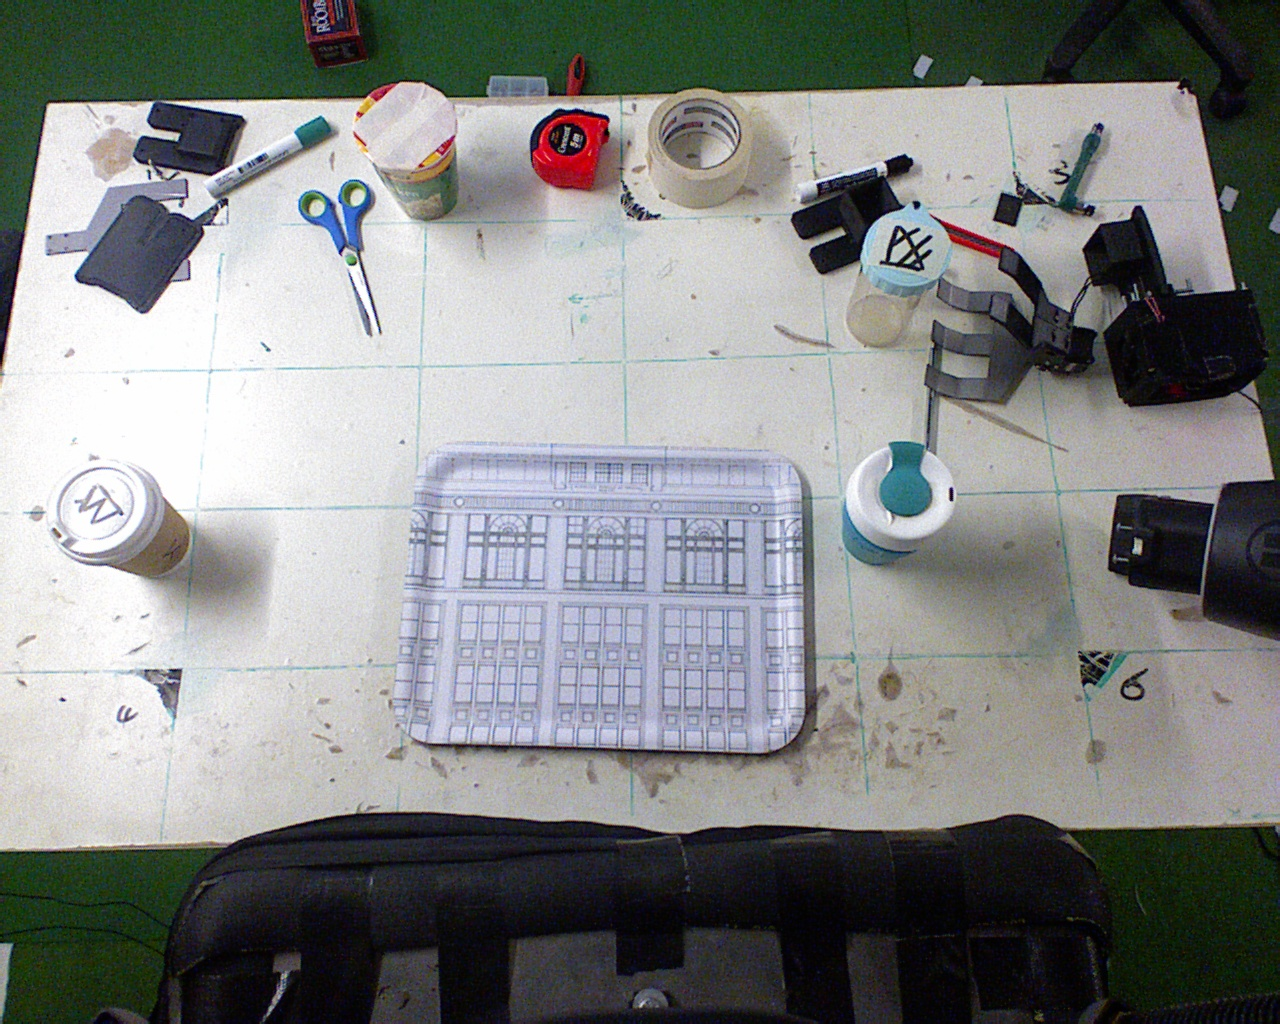
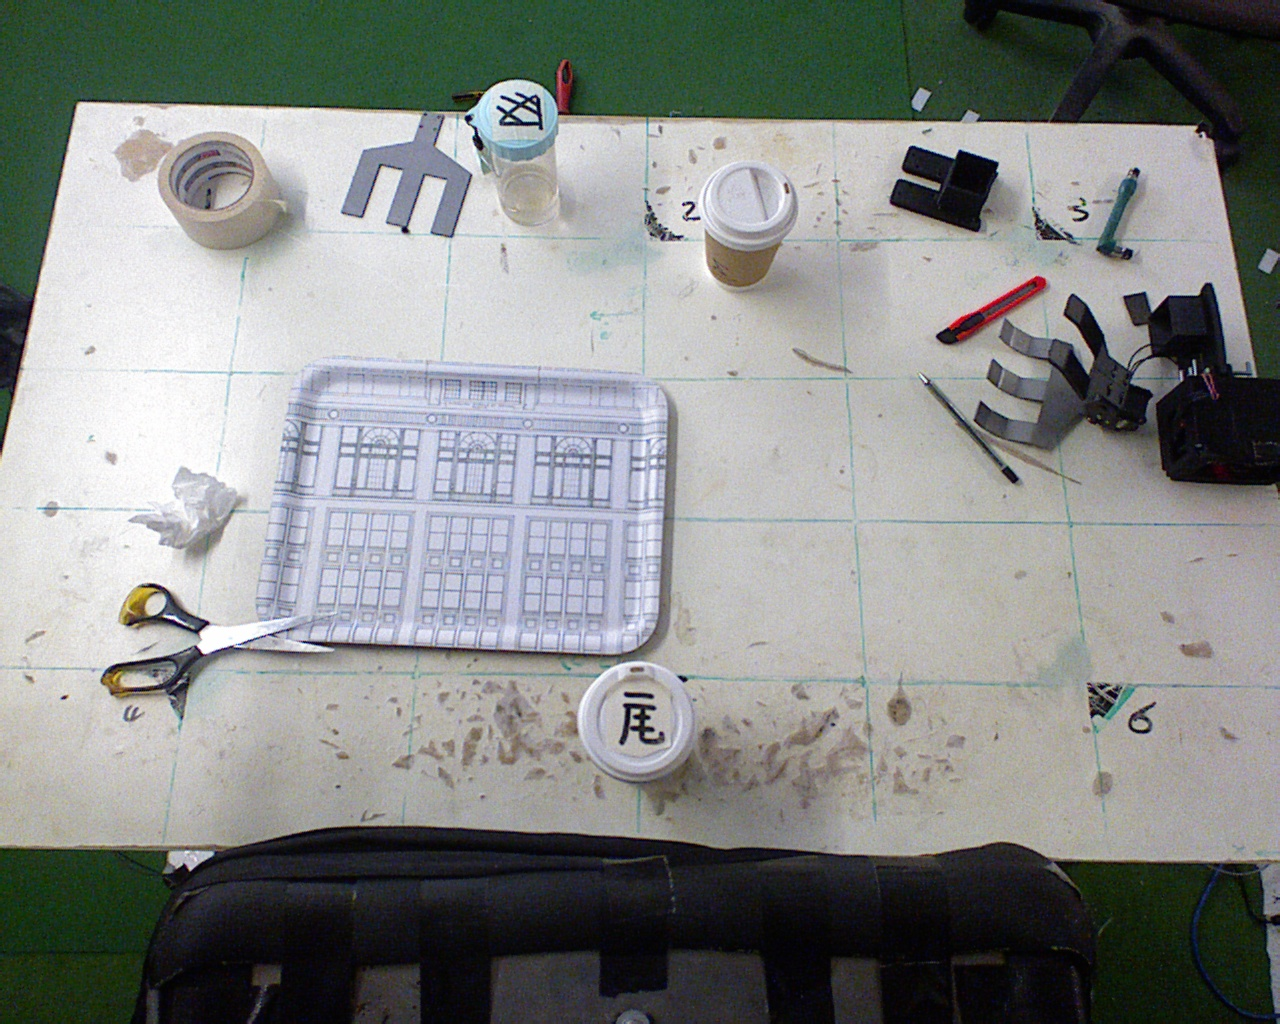
pour water

diff --git a/src/manipulation/scripts/pick_up_cylinder.py b/src/manipulation/scripts/pick_up_cylinder.py
@@ -26,6 +26,8 @@ from baxter_core_msgs.srv import (
     SolvePositionIKRequest,
 )
     
+Z_PICK = TableZ + 0.075
+
 def main():
       
     #initiate ros, robot, assign variables...
@@ -33,8 +35,56 @@ def main():
     rs = baxter_interface.RobotEnable(CHECK_VERSION)
     init_state = rs.state().enabled
     rs.enable()
+    traj = Trajectory("left")
+    rospy.on_shutdown(traj.stop)
     
+    
+    
+    ##pick up
     single_arm_pick("left","CoffeeCup")
+    
+    #~ single_arm_pick("left","WaterBottle")
+    
+    ### move up
+    limb = "left"
+    theta = radians(-90)
+    alpha = radians(95)
+    x=0.55
+    y=0.3
+    [r_x,r_y,r_z,r_w, offset_x, offset_y] = find_gesture_cylinder(limb, theta,alpha, GripperYoffset, GripperZoffset)
+    jointPosition_list = [ ik_position_list(limb,x+offset_x, y+offset_y,Z_PICK+0.15,r_x,r_y,r_z,r_w) ]
+    duration = [7]
+    
+    ### pour
+    gamma = radians(-100)
+    rospy.sleep(2)
+    [r_x,r_y,r_z,r_w, offset_x, offset_y] = find_gesture_cylinder_pour(limb, theta,alpha, gamma, GripperYoffset, GripperZoffset)
+    jointPosition_list.append ( ik_position_list(limb,x+offset_x, y+offset_y,Z_PICK+0.15,r_x,r_y,r_z,r_w) )
+    duration.append (duration[-1]+10)
+    
+    ###pause
+    jointPosition_list.append ( ik_position_list(limb,x+offset_x, y+offset_y,Z_PICK+0.15,r_x,r_y,r_z,r_w) )
+    duration.append (duration[-1]+9)
+    
+    ### unpour
+    [r_x,r_y,r_z,r_w, offset_x, offset_y] = find_gesture_cylinder(limb, theta,alpha, GripperYoffset, GripperZoffset)
+    jointPosition_list.append (ik_position_list(limb,x+offset_x, y+offset_y,Z_PICK+0.15,r_x,r_y,r_z,r_w) )
+    duration.append (duration[-1]+3)
+    
+    ###place
+    x=0.45
+    y=0.35
+    [r_x,r_y,r_z,r_w, offset_x, offset_y] = find_gesture_cylinder(limb, theta,alpha, GripperYoffset, GripperZoffset)
+    jointPosition_list.append (ik_position_list(limb,x+offset_x, y+offset_y,Z_PICK,r_x,r_y,r_z,r_w) )
+    duration.append (duration[-1]+3)
+    
+    for i in range(len(jointPosition_list)):
+		traj.add_point(jointPosition_list[i], duration[i])
+    traj.start()
+    traj.wait(30.0)
+    traj.clear(limb)
+    
+    os.system("rostopic pub /gripper_test_both/request utilities/gripperTestRequest -1 '[0, now,base_link]' 0 3")
     
 
     return 0
@@ -43,104 +93,100 @@ def main():
 # alpha in degree, lim= "left" or "right"
 def single_arm_pick(limb,object):
     
+    traj = Trajectory(limb)
     ##constants
-    Z_PICK = TableZ + 0.065
     theta = radians(-90)
+    alpha = radians(95)
     #object radius adjustment
     r=0
     offset = 0.1
     X_START=0.4
-    Y_START=0.5
-    Z_START=0.3
+    Y_START=0.63
+    Z_START=0.4
     R_X=0.603489643517
     R_Y=0.634442665138
     R_Z=-0.335770984639
     R_W=0.347189574577
-    traj = Trajectory(limb)
-    rospy.on_shutdown(traj.stop)
+
     
     #start position, no block of camera
-    traj.add_point(ik_position_list(limb,X_START,Y_START,Z_START,R_X,R_Y,R_Z,R_W), 5)
+    traj.add_point(ik_position_list(limb,X_START,Y_START,Z_START,R_X,R_Y,R_Z,R_W), 6)
     traj.start()
     traj.wait(10.0)
     traj.clear(limb)
 
-    os.system("rostopic pub /gripper_test_both/request utilities/gripperTestRequest -1 '[0, now,base_link]' 0 3")
+    #~ os.system("rostopic pub /gripper_test_both/request utilities/gripperTestRequest -1 '[0, now,base_link]' 0 3")
     
     #get plate position
     [x,y]=find_centre(get_object_position(object))
     print "centre position: %s\n"%[x,y]
     
     ##motion planning
-    step=2.5
+    step= 5
     times=1
     alternating = -1
     foundAngle = 0
     jointPosition_list = []
     duration = []
-    while abs(degrees(theta) -(- 90))<30:
+    while abs(degrees(theta) -(- 90))<90:
+        print "testing theta = ",degrees(theta), "\n"
 		#away and higher from object
-		[r_x,r_y,r_z,r_w, offset_x, offset_y] = find_gesture_cylinder(limb, theta,1.1*GripperYoffset, 2*GripperZoffset)
-		jointPosition_list = [ ik_position_list(limb,x+offset_x, y+offset_y,Z_PICK+0.13,r_x,r_y,r_z,r_w) ]
-		duration = [4]
-		#lower
-		jointPosition_list.append(ik_position_list(limb,x+offset_x, y+offset_y,Z_PICK,r_x,r_y,r_z,r_w))
-		duration.append (duration[-1]+2)
-		#closer in z1 direnction
-		[r_x,r_y,r_z,r_w, offset_x, offset_y] = find_gesture_cylinder(limb, theta,1.1*GripperYoffset, GripperZoffset)
-		jointPosition_list.append(ik_position_list(limb,x+offset_x, y+offset_y,Z_PICK,r_x,r_y,r_z,r_w))
-		duration.append (duration[-1]+2)
-		#tighter in y1 direction
-		[r_x,r_y,r_z,r_w, offset_x, offset_y] = find_gesture_cylinder(limb, theta,GripperYoffset, GripperZoffset)
-		jointPosition_list.append(ik_position_list(limb,x+offset_x, y+offset_y,Z_PICK,r_x,r_y,r_z,r_w))
-		duration.append (duration[-1]+1)
-		#tighter in z1 direction
-		[r_x,r_y,r_z,r_w, offset_x, offset_y] = find_gesture_cylinder(limb, theta,GripperYoffset, 0.95*GripperZoffset)
-		jointPosition_list.append(ik_position_list(limb,x+offset_x, y+offset_y,Z_PICK,r_x,r_y,r_z,r_w))
-		duration.append (duration[-1]+1)
-		
-		#check if found solution
-		foundAngle = 1
-		for i in jointPosition_list:
-			if i == 2:
-				foundAngle = 0
-		if foundAngle ==1:
-			break
-		else:
-			theta = -90 - step*times*alternating
-			times = times+1
-			alternating = -alternating
+        [r_x,r_y,r_z,r_w, offset_x, offset_y] = find_gesture_cylinder(limb, theta,alpha, 1.5*GripperYoffset, 2*GripperZoffset)
+        jointPosition_list = [ ik_position_list(limb,x+offset_x, y+offset_y,Z_PICK+0.13,r_x,r_y,r_z,r_w) ]
+        duration = [4]
+        #lower
+        jointPosition_list.append(ik_position_list(limb,x+offset_x, y+offset_y,Z_PICK,r_x,r_y,r_z,r_w))
+        duration.append (duration[-1]+2)
+        #pause
+        jointPosition_list.append(ik_position_list(limb,x+offset_x, y+offset_y,Z_PICK,r_x,r_y,r_z,r_w))
+        duration.append (duration[-1]+1)
+        #closer in z1 direnction
+        [r_x,r_y,r_z,r_w, offset_x, offset_y] = find_gesture_cylinder(limb, theta,alpha,  1.5*GripperYoffset, 1.2*GripperZoffset)
+        jointPosition_list.append(ik_position_list(limb,x+offset_x, y+offset_y,Z_PICK,r_x,r_y,r_z,r_w))
+        duration.append (duration[-1]+4)
+        #pause
+        jointPosition_list.append(ik_position_list(limb,x+offset_x, y+offset_y,Z_PICK,r_x,r_y,r_z,r_w))
+        duration.append (duration[-1]+1)
+        #tighter in y1 direction
+        [r_x,r_y,r_z,r_w, offset_x, offset_y] = find_gesture_cylinder(limb, theta,alpha,  0.75*GripperYoffset, 0.9*GripperZoffset)
+        jointPosition_list.append(ik_position_list(limb,x+offset_x, y+offset_y,Z_PICK,r_x,r_y,r_z,r_w))
+        duration.append (duration[-1]+2)
+        #~ #tighter in z1 direction
+        #~ [r_x,r_y,r_z,r_w, offset_x, offset_y] = find_gesture_cylinder(limb, theta,alpha,  0*GripperYoffset, 0.5*GripperZoffset)
+        #~ jointPosition_list.append(ik_position_list(limb,x+offset_x, y+offset_y,Z_PICK,r_x,r_y,r_z,r_w))
+        #~ duration.append (duration[-1]+2)
+        
+        #check if found solution
+        foundAngle = 1
+        for i in jointPosition_list:
+            if i == 2:
+                foundAngle = 0
+        
+        #break if found a solution
+        #~ print "foundAngle = %s\n"%foundAngle
+        if foundAngle ==1:
+            break
+        else:
+            theta = radians(-90 - step*times*alternating)
+            times = times+1
+            alternating = -alternating
+            #~ print "testing theta = ",degrees(theta), "\n"
 			
-	if foundAngle =0
-		print "\n!!!No solution found!!! Quit\n"
-		return 1
+    if foundAngle == 0:
+        print "\n!!!No solution found!!! Quit\n"
+        return 1
 		
-    #~ #away and higher from object
-    #~ [r_x,r_y,r_z,r_w, offset_x, offset_y] = find_gesture_cylinder(limb, theta,1.1*GripperYoffset, 2*GripperZoffset)
-    #~ traj.add_point(ik_position_list(limb,x+offset_x, y+offset_y,Z_PICK+0.13,r_x,r_y,r_z,r_w), 4.0)
-    #~ #lower
-    #~ traj.add_point(ik_position_list(limb,x+offset_x, y+offset_y,Z_PICK,r_x,r_y,r_z,r_w), 6.0)
-    #~ 
-    #~ #closer
-    #~ [r_x,r_y,r_z,r_w, offset_x, offset_y] = find_gesture_cylinder(limb, theta,1.1*GripperYoffset, GripperZoffset)
-    #~ traj.add_point(ik_position_list(limb,x+offset_x, y+offset_y,Z_PICK,r_x,r_y,r_z,r_w), 8.0)
-    #~ 
-    #~ #tighter in y1 direction
-    #~ [r_x,r_y,r_z,r_w, offset_x, offset_y] = find_gesture_cylinder(limb, theta,GripperYoffset, GripperZoffset)
-    #~ traj.add_point(ik_position_list(limb,x+offset_x, y+offset_y,Z_PICK,r_x,r_y,r_z,r_w), 9.0)
-    #~ #tighter in z1 direction
-    #~ [r_x,r_y,r_z,r_w, offset_x, offset_y] = find_gesture_cylinder(limb, theta,GripperYoffset, 0.95*GripperZoffset)
-    #~ traj.add_point(ik_position_list(limb,x+offset_x, y+offset_y,Z_PICK,r_x,r_y,r_z,r_w), 10.0)
     
-    print "\n picking up using theta = ",theta, "\n"
+    print "\n picking up using theta = ",degrees(theta), "\n"
     
     for i in range(len(jointPosition_list)):
-		traj.add(jointPosition_list[i], duration[i])
+		traj.add_point(jointPosition_list[i], duration[i])
     traj.start()
-    traj.wait(10.0)
+    traj.wait(30.0)
     traj.clear(limb)
     
     os.system("rostopic pub /gripper_test_both/request utilities/gripperTestRequest -1 '[0, now,base_link]' 1 3")
+    
     
     return 0
     

diff --git a/src/manipulation/scripts/common_functions.py b/src/manipulation/scripts/common_functions.py
@@ -92,13 +92,40 @@ def get_quaternion(r_axis, r_angle):
 # limb = "left" or "right", use which to pick up
 # centre = [x,y]
 # theta = the angle to rotate around z , rand
+# alpha = the angle to rotate around y , rand, around radians(90) when pick up, radians(180) for final step of pouring, or use another function
 # offset = distance to move away from the centre (unit m, scalar) , in gripper frame
 # return [x,y,z,w, offset_x, offset_y] ,offset in global frame
-def find_gesture_cylinder( limb, theta, offset_y_gripper, offset_z_gripper):
+def find_gesture_cylinder( limb, theta, alpha, offset_y_gripper, offset_z_gripper):
     if limb == 'left':
         Rz = np.mat([ [cos(theta), -sin(theta), 0],[sin(theta), cos(theta), 0],[0, 0, 1] ])
-        Ry = np.mat([ [cos(pi/2), 0, sin(pi/2)],[0, 1, 0],[-sin(pi/2), 0, cos(pi/2)] ])
+        y_angle = alpha
+        Ry = np.mat([ [cos(y_angle), 0, sin(y_angle)],[0, 1, 0],[-sin(y_angle), 0, cos(y_angle)] ])
         R= Rz*Ry
+        
+        w =1.*sqrt(1+R.item(0,0)+R.item(1,1)+R.item(2,2)) /2
+        x =1.*(R.item(2,1)-R.item(1,2)) / (4*w)
+        y =1.*(R.item(0,2)-R.item(2,0)) / (4*w)
+        z =1.*(R.item(1,0)-R.item(0,1)) / (4*w)
+        
+        offset = R*np.mat([ [0],[-offset_y_gripper],[-offset_z_gripper] ])
+        return [x,y,z,w, offset.item(0), offset.item(1)]
+        
+# to do write right limb
+# find the rotation and offset distance to pour an cylinder
+# limb = "left" or "right", use which to pick up
+# centre = [x,y]
+# theta = the angle to rotate around z , rand
+# alpha = the angle to rotate around y , rand, around radians(90) when pick up
+# gama = the angle to rotate around z again , rand, around radians(+-90) when pour
+# offset = distance to move away from the centre (unit m, scalar) , in gripper frame
+# return [x,y,z,w, offset_x, offset_y] ,offset in global frame
+def find_gesture_cylinder_pour( limb, theta, alpha,gamma, offset_y_gripper, offset_z_gripper):
+    if limb == 'left':
+        Rz = np.mat([ [cos(theta), -sin(theta), 0],[sin(theta), cos(theta), 0],[0, 0, 1] ])
+        y_angle = alpha
+        Ry = np.mat([ [cos(y_angle), 0, sin(y_angle)],[0, 1, 0],[-sin(y_angle), 0, cos(y_angle)] ])
+        Rz2 = np.mat([ [cos(gamma), -sin(gamma), 0],[sin(gamma), cos(gamma), 0],[0, 0, 1] ])
+        R= Rz*Ry*Rz2
         
         w =1.*sqrt(1+R.item(0,0)+R.item(1,1)+R.item(2,2)) /2
         x =1.*(R.item(2,1)-R.item(1,2)) / (4*w)
@@ -312,9 +339,9 @@ def ik_position_list(limb, p_x,p_y,p_z,r_x,r_y,r_z,r_w):
                    }.get(resp_seeds[0], 'None')
         limb_joints = resp.joints[0].position
     else:
-        print("INVALID POSE - No Valid Joint Solution Found.")
+        print("INVALID POSE - No Valid Joint Solution Found.\n")
         return 2
-
+    print("IK solution Found.\n")
     return limb_joints
 
 # adapted from /baxter_examples/scripts/joint_trajectory_client
